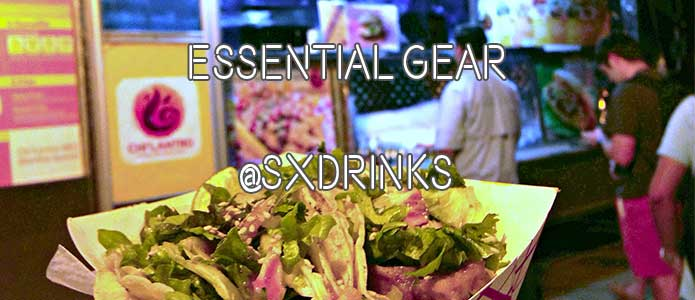
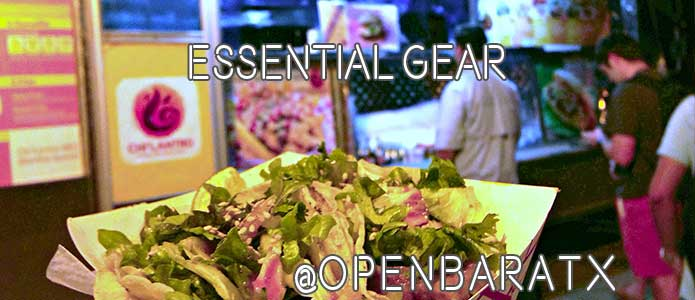
Alter images and typeface

diff --git a/_includes/header.html b/_includes/header.html
@@ -15,8 +15,8 @@
         {% endif %}
         <a class="m-navigation--menuitem {{current}}" role="menuitem" href="{{ nav.url | prepend: site.baseurl }}">{{ nav.name }}</a>
       {% endfor %}
-      <a class="m-navigation--menuitem" target="_blank" role="menuitem" href="https://twitter.com/openbaratx"><svg class="icon" title="Follow our twitter"><use xlink:href="#icon-twitter"></use></svg></a>
-      <a class="m-navigation--menuitem" target="_blank" role="menuitem" href="https://www.instagram.com/openbaratx/"><svg class="icon" title="Follow our instagram"><use xlink:href="#icon-instagram"></use></svg></a>
+      <a class="m-navigation--menuitem" target="_blank" role="menuitem" href="https://twitter.com/OpenBarATX"><svg class="icon" title="Follow our twitter"><use xlink:href="#icon-twitter"></use></svg></a>
+      <a class="m-navigation--menuitem" target="_blank" role="menuitem" href="https://www.instagram.com/OpenBarATX/"><svg class="icon" title="Follow our instagram"><use xlink:href="#icon-instagram"></use></svg></a>
       <a class="m-navigation--menuitem" target="_blank" role="menuitem" href="{{ '/feed.xml' | prepend: site.baseurl }}"><svg class="icon" title="RSS Feed"><use xlink:href="#icon-rss"></use></svg></a>
     </div>
   </nav>

diff --git a/_posts/2016-02-10-twitter-accounts-to-follow.md b/_posts/2016-02-10-twitter-accounts-to-follow.md
@@ -4,6 +4,7 @@ title:  "Twitter accounts to follow"
 date:   2016-02-10 12:00:00
 categories: twitter
 image: "2016/twitter-accounts.png"
+image_high_rez: "2016/twitter-accounts_lg.png"
 ---
 
 Everything happens very quickly during South By— and Twitter is the best place to get all the information you'll need during the week. Here is my list of Twitter accounts that you must follow for the week. As always, you should follow [@openbaratx](https://twitter.com/openbaratx)
